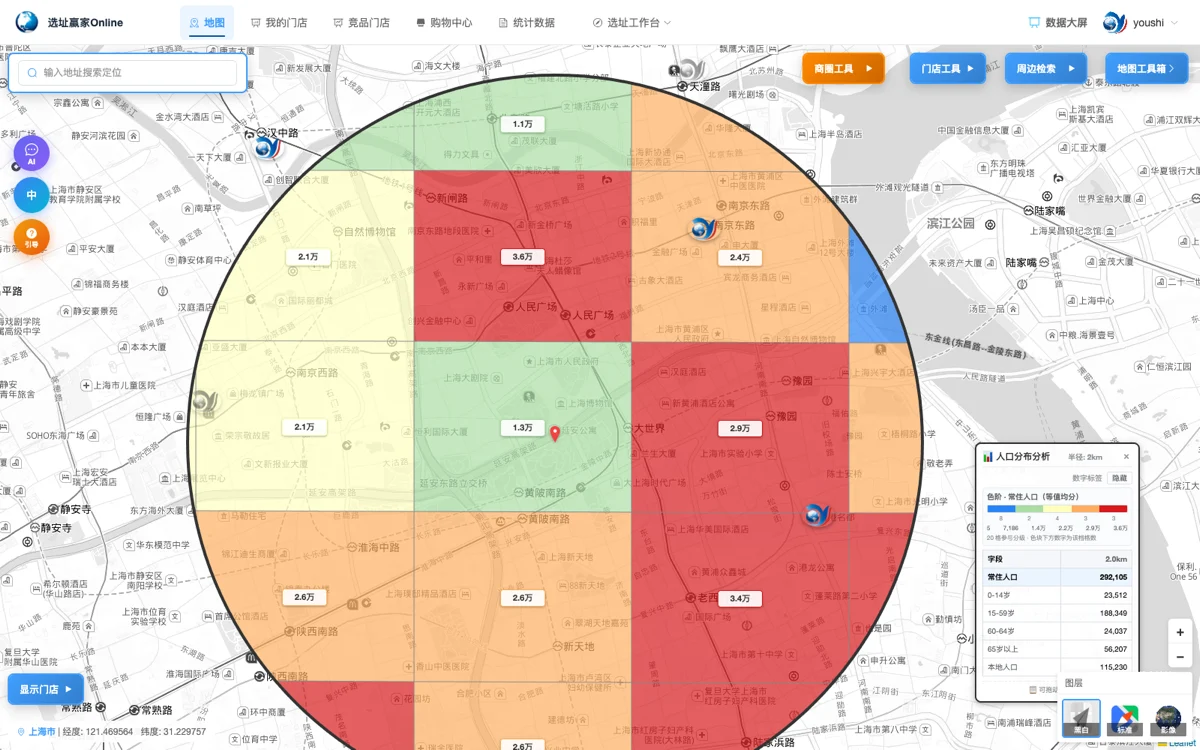
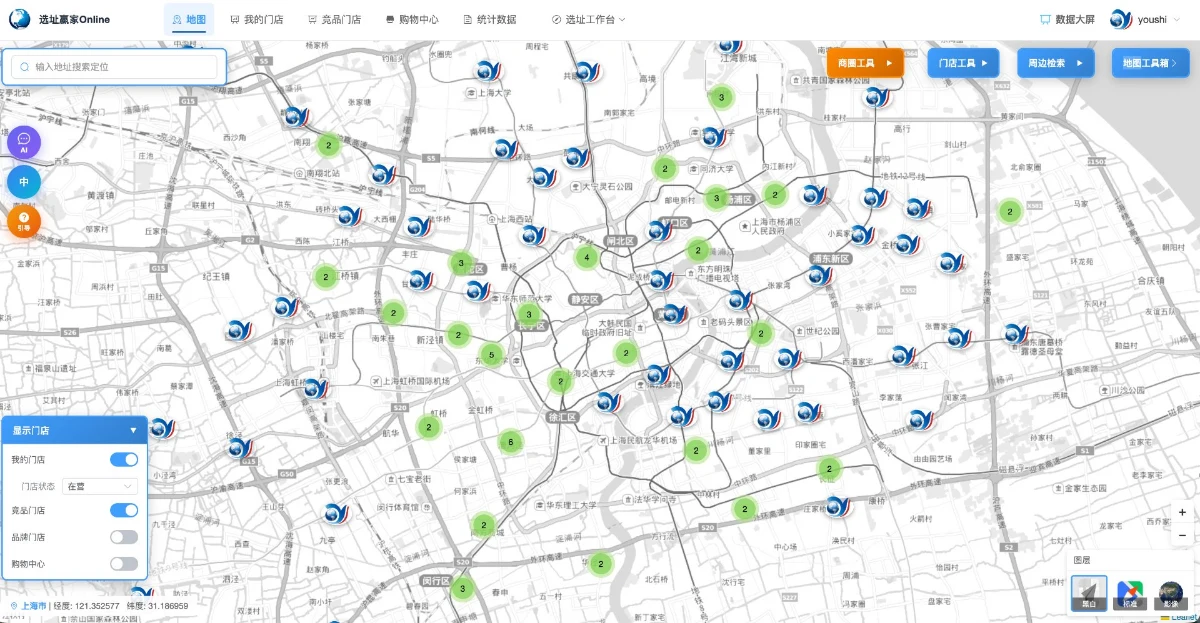
feat(home): 首屏截图改为自有门店+竞品门店同图视角
- hero 换业主指定截图：上海全域地图，自有门店（品牌图标）与竞品门店（绿色聚合）同图展示
- 1200x623 q0.88（157KB），alt 文案同步更新；已部署 /home/ 并 MD5 对齐（备份 *.bak_20261103_1748）

diff --git a/homepage/index.html b/homepage/index.html
@@ -388,7 +388,7 @@ h1{margin:26px auto 0;max-width:16em;font-size:clamp(38px,5.4vw,66px);line-heigh
 
     <div class="hero-shot">
       <div class="shot-bar" aria-hidden="true"><i></i><i></i><i></i><span>mka-online.cn / 地图工作台</span></div>
-      <img src="assets/screen-hero.webp" alt="地图工作台：上海人民广场周边 2 公里圆形范围内，按 1 公里网格分五档着色显示常住人口密度，右侧面板汇总常住人口 29.2 万及各年龄段构成" width="1200" height="750" fetchpriority="high" decoding="async">
+      <img src="assets/screen-hero.webp" alt="地图工作台：上海市全域地图同时展示自有门店（品牌图标）与竞品门店（绿色数字聚合），左侧面板可按门店状态、图层开关筛选" width="1200" height="623" fetchpriority="high" decoding="async">
     </div>
   </div>
 </section>
